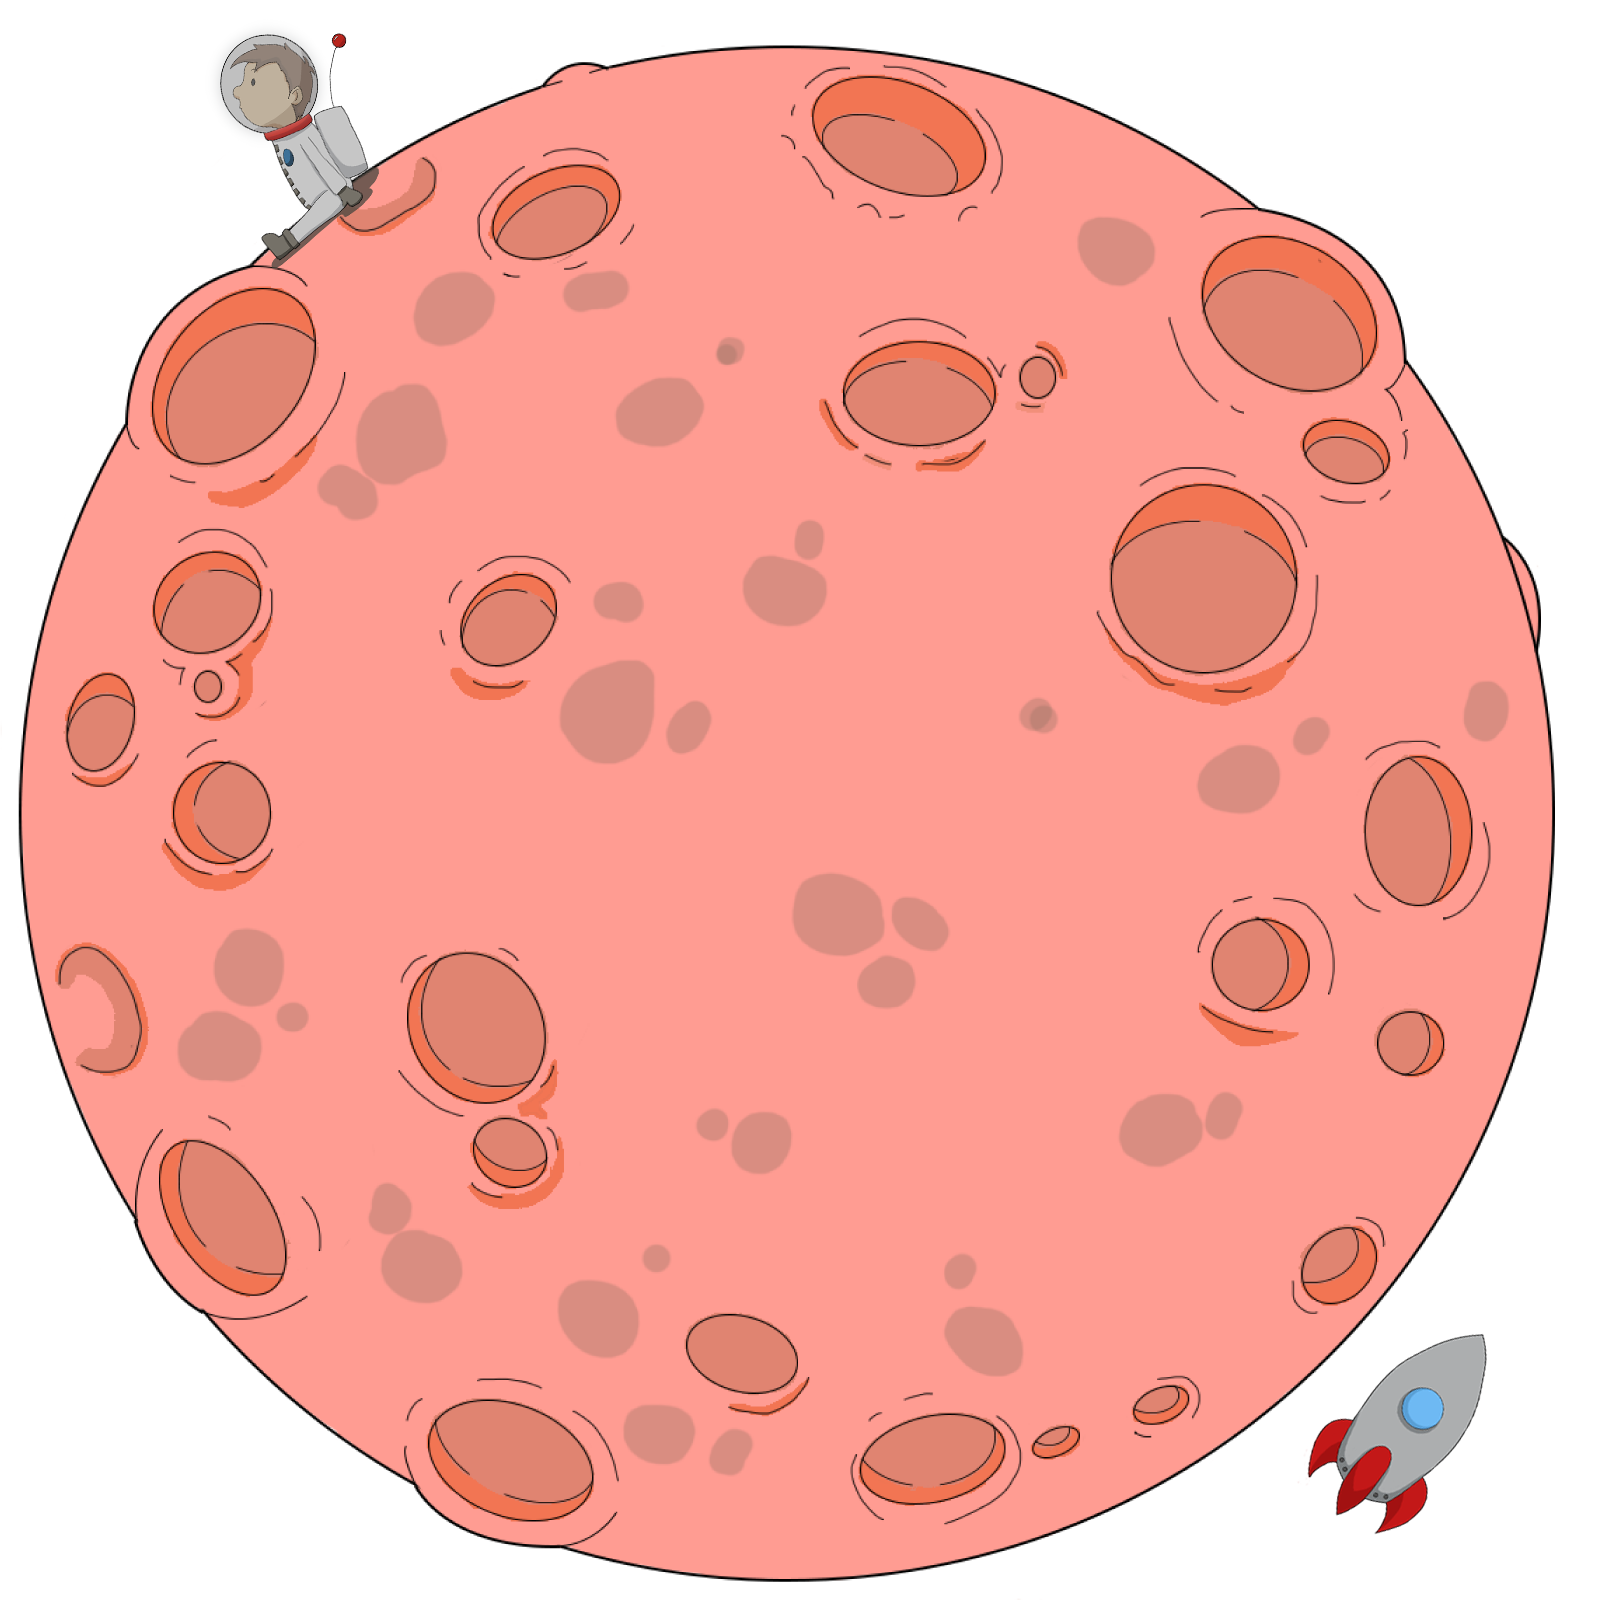
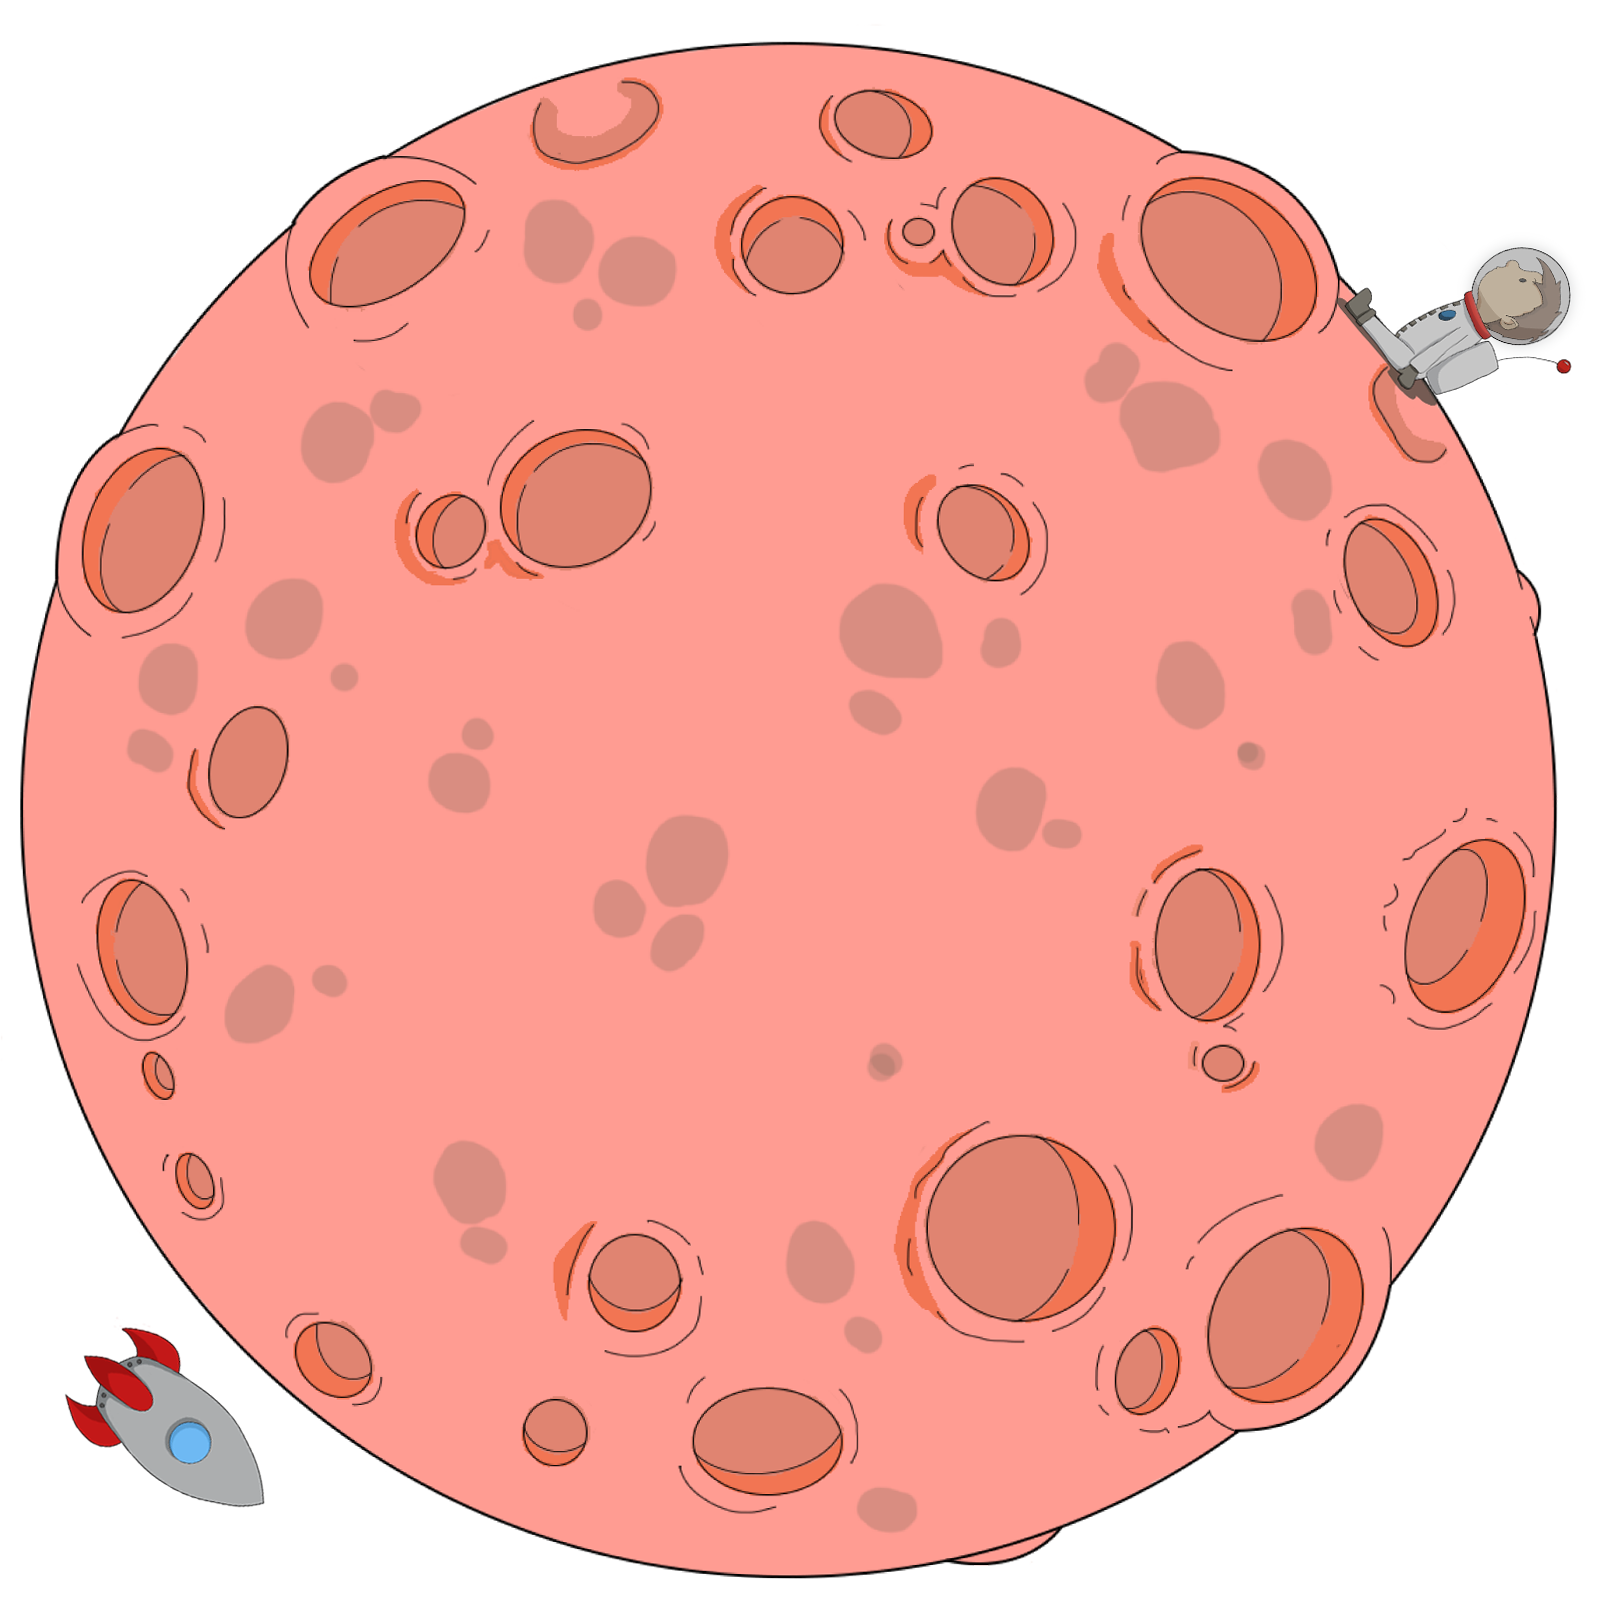
correciones del menú (botones, planeta, sprites)

diff --git a/app/src/main/java/mx/itesm/planetz/MenuScene.java b/app/src/main/java/mx/itesm/planetz/MenuScene.java
@@ -260,7 +260,7 @@ public class MenuScene extends BaseScene{
         // -- Ajustamos su posición a la parte inferior
         planetSprite.setPosition(gameManager.CAMERA_WIDTH / 2, -gameManager.CAMERA_HEIGHT + 200);
         // -- Registramos un Modifier perpetuo que haga que el planeta gire
-        planetSprite.registerEntityModifier(new LoopEntityModifier(new RotationModifier(250, 0, -360)));
+        planetSprite.registerEntityModifier(new LoopEntityModifier(new RotationModifier(200, 0, -360)));
 
         // =============== Adjuntar y esconder el overlay ========
         attachChild(menuOverlaySprite);
@@ -467,25 +467,25 @@ public class MenuScene extends BaseScene{
 
 
         //gemas
-        gem1 = new Sprite(GameManager.CAMERA_WIDTH/2 -400,GameManager.CAMERA_HEIGHT/2 -50,resourceManager.backpackMenuGemBlue1TextureRegion, vertexBufferObjectManager);
+        gem1 = new Sprite(GameManager.CAMERA_WIDTH/2 -300,GameManager.CAMERA_HEIGHT/2 -50,resourceManager.backpackMenuGemBlue1TextureRegion, vertexBufferObjectManager);
         gem2 = new Sprite(GameManager.CAMERA_WIDTH/2,GameManager.CAMERA_HEIGHT/2 -50,resourceManager.backpackMenuGemBlue2TextureRegion, vertexBufferObjectManager);
-        gem3 = new Sprite(GameManager.CAMERA_WIDTH/2 +400,GameManager.CAMERA_HEIGHT/2 -50,resourceManager.backpackMenuGemBlue3TextureRegion, vertexBufferObjectManager);
-        gem4 = new Sprite(GameManager.CAMERA_WIDTH/2 -400,GameManager.CAMERA_HEIGHT/2 -50,resourceManager.backpackMenuGemPink1TextureRegion, vertexBufferObjectManager);
+        gem3 = new Sprite(GameManager.CAMERA_WIDTH/2 +300,GameManager.CAMERA_HEIGHT/2 -50,resourceManager.backpackMenuGemBlue3TextureRegion, vertexBufferObjectManager);
+        gem4 = new Sprite(GameManager.CAMERA_WIDTH/2 -300,GameManager.CAMERA_HEIGHT/2 -50,resourceManager.backpackMenuGemPink1TextureRegion, vertexBufferObjectManager);
         gem5 = new Sprite(GameManager.CAMERA_WIDTH/2,GameManager.CAMERA_HEIGHT/2 -50,resourceManager.backpackMenuGemPink2TextureRegion, vertexBufferObjectManager);
-        gem6 = new Sprite(GameManager.CAMERA_WIDTH/2 +400,GameManager.CAMERA_HEIGHT/2 -50,resourceManager.backpackMenuGemPink3TextureRegion, vertexBufferObjectManager);
-        gem7 = new Sprite(GameManager.CAMERA_WIDTH/2 -400,GameManager.CAMERA_HEIGHT/2 -50,resourceManager.backpackMenuGemYellow1TextureRegion, vertexBufferObjectManager);
+        gem6 = new Sprite(GameManager.CAMERA_WIDTH/2 +300,GameManager.CAMERA_HEIGHT/2 -50,resourceManager.backpackMenuGemPink3TextureRegion, vertexBufferObjectManager);
+        gem7 = new Sprite(GameManager.CAMERA_WIDTH/2 -300,GameManager.CAMERA_HEIGHT/2 -50,resourceManager.backpackMenuGemYellow1TextureRegion, vertexBufferObjectManager);
         gem8 = new Sprite(GameManager.CAMERA_WIDTH/2,GameManager.CAMERA_HEIGHT/2 -50,resourceManager.backpackMenuGemYellow2TextureRegion, vertexBufferObjectManager);
-        gem9 = new Sprite(GameManager.CAMERA_WIDTH/2 +400,GameManager.CAMERA_HEIGHT/2 -50,resourceManager.backpackMenuGemYellow3TextureRegion, vertexBufferObjectManager);
+        gem9 = new Sprite(GameManager.CAMERA_WIDTH/2 +300,GameManager.CAMERA_HEIGHT/2 -50,resourceManager.backpackMenuGemYellow3TextureRegion, vertexBufferObjectManager);
 
-        gemL1 = new Sprite(GameManager.CAMERA_WIDTH/2 -400,GameManager.CAMERA_HEIGHT/2 -50,resourceManager.backpackMenuGemLocked1TextureRegion, vertexBufferObjectManager);
+        gemL1 = new Sprite(GameManager.CAMERA_WIDTH/2 -300,GameManager.CAMERA_HEIGHT/2 -50,resourceManager.backpackMenuGemLocked1TextureRegion, vertexBufferObjectManager);
         gemL2 = new Sprite(GameManager.CAMERA_WIDTH/2,GameManager.CAMERA_HEIGHT/2 -50,resourceManager.backpackMenuGemLocked2TextureRegion, vertexBufferObjectManager);
-        gemL3 = new Sprite(GameManager.CAMERA_WIDTH/2 +400,GameManager.CAMERA_HEIGHT/2 -50,resourceManager.backpackMenuGemLocked3TextureRegion, vertexBufferObjectManager);
-        gemL4 = new Sprite(GameManager.CAMERA_WIDTH/2 -400,GameManager.CAMERA_HEIGHT/2 -50,resourceManager.backpackMenuGemLocked1TextureRegion, vertexBufferObjectManager);
+        gemL3 = new Sprite(GameManager.CAMERA_WIDTH/2 +300,GameManager.CAMERA_HEIGHT/2 -50,resourceManager.backpackMenuGemLocked3TextureRegion, vertexBufferObjectManager);
+        gemL4 = new Sprite(GameManager.CAMERA_WIDTH/2 -300,GameManager.CAMERA_HEIGHT/2 -50,resourceManager.backpackMenuGemLocked1TextureRegion, vertexBufferObjectManager);
         gemL5 = new Sprite(GameManager.CAMERA_WIDTH/2,GameManager.CAMERA_HEIGHT/2 -50,resourceManager.backpackMenuGemLocked2TextureRegion, vertexBufferObjectManager);
-        gemL6 = new Sprite(GameManager.CAMERA_WIDTH/2 +400,GameManager.CAMERA_HEIGHT/2 -50,resourceManager.backpackMenuGemLocked3TextureRegion, vertexBufferObjectManager);
-        gemL7 = new Sprite(GameManager.CAMERA_WIDTH/2 -400,GameManager.CAMERA_HEIGHT/2 -50,resourceManager.backpackMenuGemLocked1TextureRegion, vertexBufferObjectManager);
+        gemL6 = new Sprite(GameManager.CAMERA_WIDTH/2 +300,GameManager.CAMERA_HEIGHT/2 -50,resourceManager.backpackMenuGemLocked3TextureRegion, vertexBufferObjectManager);
+        gemL7 = new Sprite(GameManager.CAMERA_WIDTH/2 -300,GameManager.CAMERA_HEIGHT/2 -50,resourceManager.backpackMenuGemLocked1TextureRegion, vertexBufferObjectManager);
         gemL8 = new Sprite(GameManager.CAMERA_WIDTH/2,GameManager.CAMERA_HEIGHT/2 -50,resourceManager.backpackMenuGemLocked2TextureRegion, vertexBufferObjectManager);
-        gemL9 = new Sprite(GameManager.CAMERA_WIDTH/2 +400,GameManager.CAMERA_HEIGHT/2 -50,resourceManager.backpackMenuGemLocked3TextureRegion, vertexBufferObjectManager);
+        gemL9 = new Sprite(GameManager.CAMERA_WIDTH/2 +300,GameManager.CAMERA_HEIGHT/2 -50,resourceManager.backpackMenuGemLocked3TextureRegion, vertexBufferObjectManager);
         level1 = new Entity();
         level2 = new Entity();
         level3 = new Entity();
@@ -568,7 +568,7 @@ public class MenuScene extends BaseScene{
 
         // =============== Ubicando los botones =================
         backButton.setPosition(150, GameManager.CAMERA_HEIGHT - 125);
-        rightArrow.setPosition(GameManager.CAMERA_WIDTH - 50, GameManager.CAMERA_HEIGHT / 2 - 200);
+        rightArrow.setPosition(GameManager.CAMERA_WIDTH - 100, GameManager.CAMERA_HEIGHT / 2 - 50);
         leftArrow.setPosition(100, GameManager.CAMERA_HEIGHT/2 -50);
 
         countPosition= 1;

diff --git a/app/src/main/java/mx/itesm/planetz/ResourceManager.java b/app/src/main/java/mx/itesm/planetz/ResourceManager.java
@@ -362,7 +362,7 @@ public class ResourceManager {
         // -- Logotipo juego --
         menuLogoBackgroundTextureRegion = BitmapTextureAtlasTextureRegionFactory.createFromAsset(menuLogoTextureAtlas, gameManager, "LogoSmall.png", 0, 0);
         // -- Planeta --
-        menuPlanetTextureRegion = BitmapTextureAtlasTextureRegionFactory.createFromAsset(menuPlanetTextureAtlas, gameManager, "PlanetaGrande.png", 0, 0);
+        menuPlanetTextureRegion = BitmapTextureAtlasTextureRegionFactory.createFromAsset(menuPlanetTextureAtlas, gameManager, "PlanetWithShip.png", 0, 0);
         // -- Overlay --
         menuOverlayTextureRegion = BitmapTextureAtlasTextureRegionFactory.createFromAsset(menuOverlayTextureAtlas, gameManager, "menuOverlay.png", 0, 0);
 
